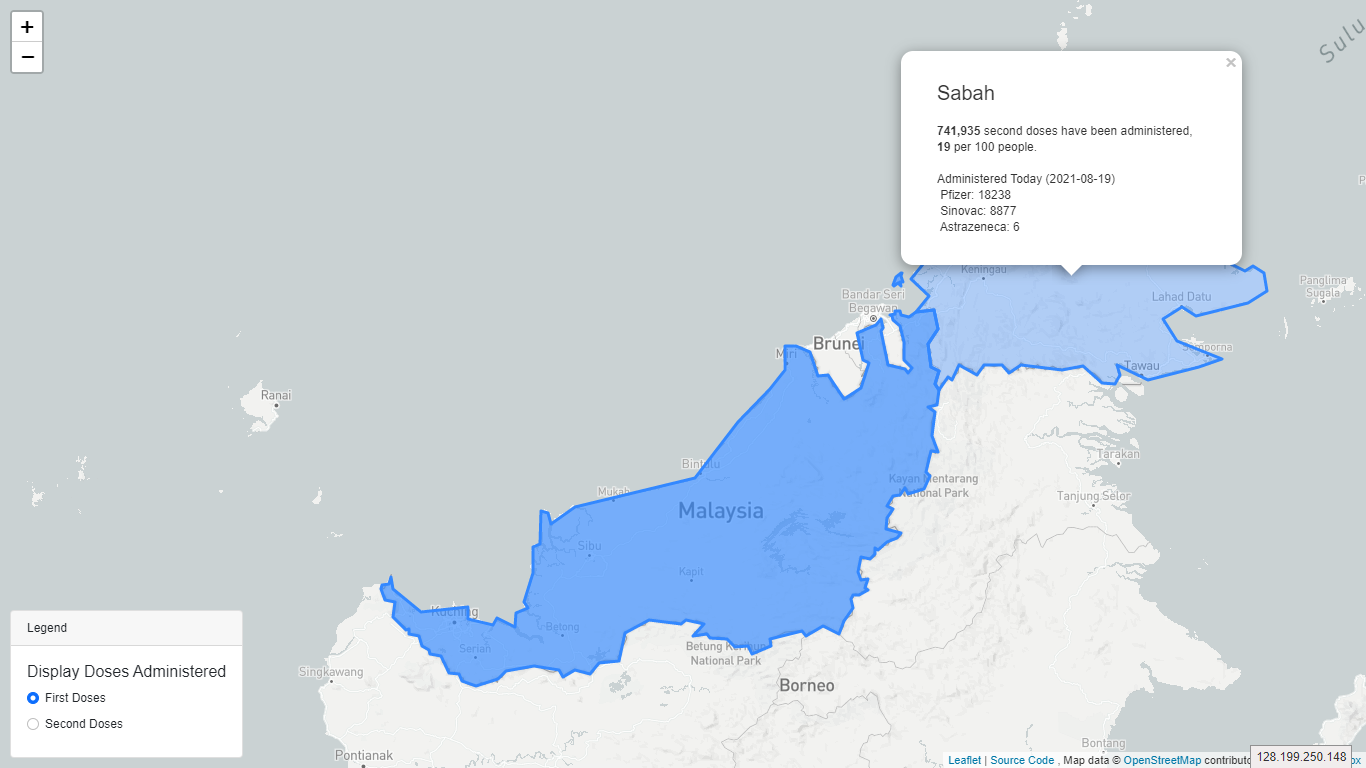
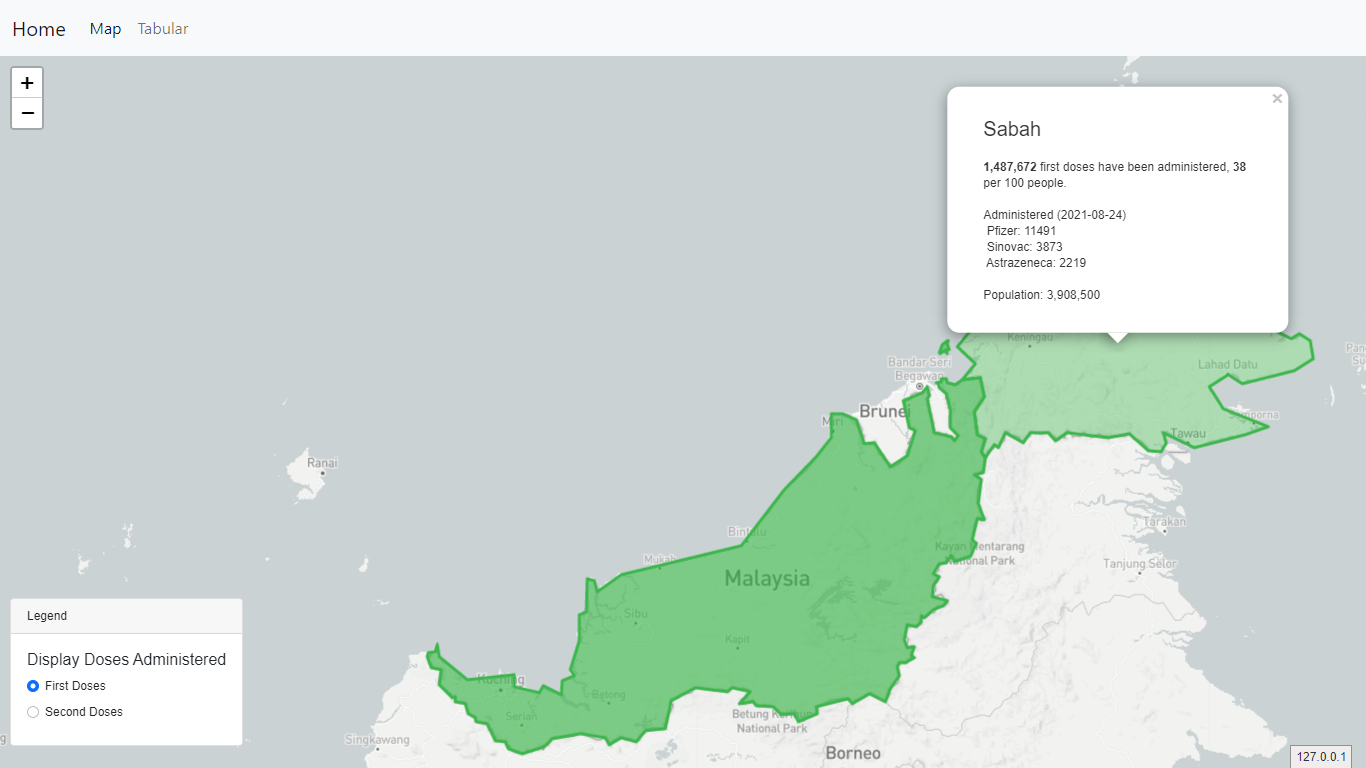
feat: add tabular view to the map

diff --git a/resources/views/tabular.blade.php b/resources/views/tabular.blade.php
@@ -1,0 +1,133 @@
+<!doctype html>
+<html lang="{{ str_replace('_', '-', app()->getLocale()) }}">
+  <head>
+    <!-- Required meta tags -->
+    <meta charset="utf-8">
+    <meta name="viewport" content="width=device-width, initial-scale=1">
+
+    <!-- Bootstrap CSS -->
+    <link href="https://cdn.jsdelivr.net/npm/bootstrap@5.1.0/dist/css/bootstrap.min.css" 
+          rel="stylesheet" integrity="sha384-KyZXEAg3QhqLMpG8r+8fhAXLRk2vvoC2f3B09zVXn8CA5QIVfZOJ3BCsw2P0p/We" 
+          crossorigin="anonymous">
+
+
+    <title>Malaysia Vaccine Map</title>
+
+    <style>
+        body {
+            padding: 0;
+            margin: 0;
+        }
+        html, body, #mapid {
+            height: 100%;
+            width: 100%;
+        }
+        .tabular-data {
+            padding-top: 20px;
+        }
+    </style>
+
+    @if(env('GOOGLE_ANALYTICS_ID'))
+        <!-- Global site tag (gtag.js) - Google Analytics -->
+        <script async src="https://www.googletagmanager.com/gtag/js?id={{env('GOOGLE_ANALYTICS_ID')}}"></script>
+        <script>
+        window.dataLayer = window.dataLayer || [];
+        function gtag(){dataLayer.push(arguments);}
+        gtag("js", new Date());
+
+        gtag("config", "{{env('GOOGLE_ANALYTICS_ID')}}");
+        </script> 
+    @endif 
+
+  </head>
+  <body>
+
+    <nav class="navbar navbar-expand-lg navbar-light bg-light">
+        <div class="container-fluid">
+            <a class="navbar-brand" href="/">Home</a>
+            <button class="navbar-toggler" type="button" data-bs-toggle="collapse" data-bs-target="#navbarNavAltMarkup" aria-controls="navbarNavAltMarkup" aria-expanded="false" aria-label="Toggle navigation">
+            <span class="navbar-toggler-icon"></span>
+            </button>
+            <div class="collapse navbar-collapse" id="navbarNavAltMarkup">
+            <div class="navbar-nav">
+                <a class="nav-link" aria-current="page" href="/">Map</a>
+                <a class="nav-link active" href="/tabular">Tabular</a>
+            </div>
+            </div>
+        </div>
+    </nav>
+  
+
+    <div class="container">
+
+
+    <div class="row">
+        <div class="col tabular-data">
+            <div class="table-responsive">
+                    <table class="table">
+                        <thead>
+                            <tr>
+                            <th scope="col">State</th>
+                            <th scope="col">First Dose (%)</th>
+                            <th scope="col">Second Dose (%)</th>
+                            <th scope="col">Pfizer ({{ $date }})</th>
+                            <th scope="col">Sinovac ({{ $date }})</th>
+                            <th scope="col">Astrazeneca ({{ $date }})</th>
+                            <th scope="col">Population</th>
+                            </tr>
+                        </thead>
+                        <tbody>
+                            @foreach( $tabular_data as $item )
+                                <tr>
+                                    <td> {{ $item->state }} </td>
+                                    <td> {{ $item->cumul_partial_percentage }} </td>
+                                    <td> {{ $item->cumul_full_percentage }} </td>
+                                    <td> 
+                                        {{ $item->pfizer1 }} (1st) <br>
+                                        <br> 
+                                        {{ $item->pfizer2 }} (2nd)
+                                        <br> 
+                                    </td>
+                                    <td> 
+                                        {{ $item->sinovac1 }} (1st) <br> 
+                                        <br>
+                                        {{ $item->sinovac2 }} (2nd) 
+                                        <br> 
+                                    </td>
+                                    <td> 
+                                        {{ $item->astra1 }} (1st) <br> 
+                                        <br>
+                                        {{ $item->astra2 }} (2nd)
+                                        <br> 
+                                    </td>
+                                    <td> {{ $item->pop }} </td>
+                                </tr>
+                            @endforeach
+                        </tbody>
+                    </table>
+
+                    Data Source: <br>
+                    <ul>
+                        <li> <a href="https://github.com/MoH-Malaysia/covid19-public/blob/main/static/population.csv">Population Data - MoH-Malaysia/covid19-public</a> </li>
+                        <li> <a href="https://github.com/CITF-Malaysia/citf-public/blob/main/vaccination/vax_state.csv">Vaccine Count - CITF-Malaysia/citf-public</a> </li>
+                    
+            </div>
+        </div>
+    </div>
+    </div>
+    
+   
+
+
+    <!-- Bootstrap JS -->
+    <script src="https://cdn.jsdelivr.net/npm/bootstrap@5.1.0/dist/js/bootstrap.bundle.min.js" 
+            integrity="sha384-U1DAWAznBHeqEIlVSCgzq+c9gqGAJn5c/t99JyeKa9xxaYpSvHU5awsuZVVFIhvj" 
+            crossorigin="anonymous"></script>
+
+    <script src="https://cdnjs.cloudflare.com/ajax/libs/jquery/3.6.0/jquery.min.js" 
+            integrity="sha512-894YE6QWD5I59HgZOGReFYm4dnWc1Qt5NtvYSaNcOP+u1T9qYdvdihz0PPSiiqn/+/3e7Jo4EaG7TubfWGUrMQ==" 
+            crossorigin="anonymous" referrerpolicy="no-referrer"></script>
+    
+
+  </body>
+</html>

diff --git a/app/Repositories/Eloquent/GeoJSONRepository.php b/app/Repositories/Eloquent/GeoJSONRepository.php
@@ -93,24 +93,63 @@ class GeoJSONRepository implements IGeoJSONRepository
             $item["properties"]["Description1"] =  "<b>".number_format($doses_administered_1st, 0, ".", ",")."</b> first doses have been administered, <b>";
             $item["properties"]["Description1"] .= $percapita_count_1st."</b> per 100 people.";
             $item["properties"]["Description1"] .= "<br>";
-            $item["properties"]["Description1"] .= "<br>Administered Today (" .$date .")";
+            $item["properties"]["Description1"] .= "<br>Administered (" .$date .")";
             $item["properties"]["Description1"] .= "<br>&nbsp;Pfizer: " .$pfizer_1st;
             $item["properties"]["Description1"] .= "<br>&nbsp;Sinovac: " .$sinovac_1st;
             $item["properties"]["Description1"] .= "<br>&nbsp;Astrazeneca: " .$astra_1st;
+            $item["properties"]["Description1"] .= "<br>";
+            $item["properties"]["Description1"] .= "<br>";
+            $item["properties"]["Description1"] .= "Population: " .number_format($population, 0, ".", ",");
 
             $item["properties"]["Weight2"] = round($doses_administered_2nd/$population, 2) * 10;
             $item["properties"]["Description2"] =  "<b>".number_format($doses_administered_2nd, 0, ".", ",")."</b> second doses have been administered, <b>";
             $item["properties"]["Description2"] .= $percapita_count_2nd."</b> per 100 people.";
             $item["properties"]["Description2"] .= "<br>";
-            $item["properties"]["Description2"] .= "<br>Administered Today (" .$date .")";
+            $item["properties"]["Description2"] .= "<br>Administered (" .$date .")";
             $item["properties"]["Description2"] .= "<br>&nbsp;Pfizer: " .$pfizer_2nd;
             $item["properties"]["Description2"] .= "<br>&nbsp;Sinovac: " .$sinovac_2nd;
             $item["properties"]["Description2"] .= "<br>&nbsp;Astrazeneca: " .$astra_2nd;
+            $item["properties"]["Description2"] .= "<br>";
+            $item["properties"]["Description2"] .= "<br>";
+            $item["properties"]["Description2"] .= "Population: " .number_format($population, 0, ".", ",");
             
             return $item;
         }, $geojson["features"]);
 
 
         return $geojson;
+    }
+
+    public function getAllDosesCount()
+    {
+        $population = Population::all("state","pop");
+
+        $vaccine_state = VaccineState::whereIn('date', VaccineState::selectRaw("max(date)")->get())
+                                     ->orderBy("state")
+                                     ->get()
+                                     ->transform(function($vaccine_state_item) use ($population) {
+                                        
+                                        $population_model = $population->filter(function($pop_item) use ($vaccine_state_item) {
+                                            return $pop_item->state == $vaccine_state_item->state;
+                                            })->first();
+
+                                        $vaccine_state_item["cumul_partial_percentage"] = round( $vaccine_state_item["cumul_partial"] / $population_model->pop , 2 ) * 100;
+                                        $vaccine_state_item["cumul_full_percentage"] = round( $vaccine_state_item["cumul_full"] / $population_model->pop , 2 ) * 100;
+
+                                        $vaccine_state_item["pfizer1"] = number_format($vaccine_state_item["pfizer1"], 0, ".", ",");
+                                        $vaccine_state_item["pfizer2"] = number_format($vaccine_state_item["pfizer2"], 0, ".", ",");
+
+                                        $vaccine_state_item["sinovac1"] = number_format($vaccine_state_item["sinovac1"], 0, ".", ",");
+                                        $vaccine_state_item["sinovac2"] = number_format($vaccine_state_item["sinovac2"], 0, ".", ",");
+
+                                        $vaccine_state_item["astra1"] = number_format($vaccine_state_item["astra1"], 0, ".", ",");
+                                        $vaccine_state_item["astra2"] = number_format($vaccine_state_item["astra2"], 0, ".", ",");
+
+                                        $vaccine_state_item["pop"] = number_format($population_model->pop, 0, ".", ",");
+
+                                        return $vaccine_state_item;
+                                     });
+        
+        return $vaccine_state;   
     }
 }

diff --git a/resources/views/map.blade.php b/resources/views/map.blade.php
@@ -24,13 +24,45 @@
             height: 100%;
             width: 100%;
         }
+        #mapid {
+            height: 95%;
+            padding-top: 56px;
+        }
         .legend-card {
             margin-bottom: 40px !important;
         }
     </style>
 
+    @if(env('GOOGLE_ANALYTICS_ID'))
+        <!-- Global site tag (gtag.js) - Google Analytics -->
+        <script async src="https://www.googletagmanager.com/gtag/js?id={{env('GOOGLE_ANALYTICS_ID')}}"></script>
+        <script>
+        window.dataLayer = window.dataLayer || [];
+        function gtag(){dataLayer.push(arguments);}
+        gtag("js", new Date());
+
+        gtag("config", "{{env('GOOGLE_ANALYTICS_ID')}}");
+        </script> 
+    @endif 
+
   </head>
   <body>
+
+    <nav class="navbar navbar-expand-lg navbar-light bg-light">
+        <div class="container-fluid">
+            <a class="navbar-brand" href="/">Home</a>
+            <button class="navbar-toggler" type="button" data-bs-toggle="collapse" data-bs-target="#navbarNavAltMarkup" aria-controls="navbarNavAltMarkup" aria-expanded="false" aria-label="Toggle navigation">
+            <span class="navbar-toggler-icon"></span>
+            </button>
+            <div class="collapse navbar-collapse" id="navbarNavAltMarkup">
+            <div class="navbar-nav">
+                <a class="nav-link active" aria-current="page" href="/">Map</a>
+                <a class="nav-link" href="/tabular">Tabular</a>
+            </div>
+            </div>
+        </div>
+    </nav>
+
     <div id="mapid"></div>
 
 
@@ -78,7 +110,9 @@
 
                             var weight = feature.properties.Weight1;
                             return {
-                                "fillOpacity": weight / 10
+                                "fillOpacity": weight / 10,
+                                "fillColor": "#3CB64C",
+                                "color": "#3CB64C",
                             }
                         },
                         onEachFeature: function (feature, layer) {
@@ -92,12 +126,10 @@
                                 
                                 if (showCount == null || showCount=="dose1_cumul") {
                                     description = feature.properties.Description1;
-                                    weight = feature.properties.Weight1;
                                 }
 
                                 if (showCount=="dose2_cumul") {
                                     description = feature.properties.Description2;
-                                    weight = feature.properties.Weight2;
                                 }
                                 
 

diff --git a/routes/web.php b/routes/web.php
@@ -15,7 +15,13 @@ use App\Repositories\Contracts\IGeoJSONRepository;
 */
 
 Route::get('/', function () {
-    return view('welcome');
+    return view('map');
+});
+
+Route::get('/tabular', function (IGeoJSONRepository $geojson_repository) {
+    $tabular_data = $geojson_repository->getAllDosesCount();
+    $date = $tabular_data->first()->date;
+    return view('tabular', compact("tabular_data", "date"));
 });
 
 

diff --git a/README.md b/README.md
@@ -6,6 +6,7 @@ Show the vaccine per capita count in Malaysia map. Data visualization for the va
 ## Screenshots & Demo 
 
 ![Demo 1](/docs/demo1.png?raw=true "Demo 1")
+![Demo 2](/docs/demo1.png?raw=true "Demo 2")
 
 [Demo URL - covid19-vaccine-map.hamzahjamad.com](https://covid19-vaccine-map.hamzahjamad.com/)
 
